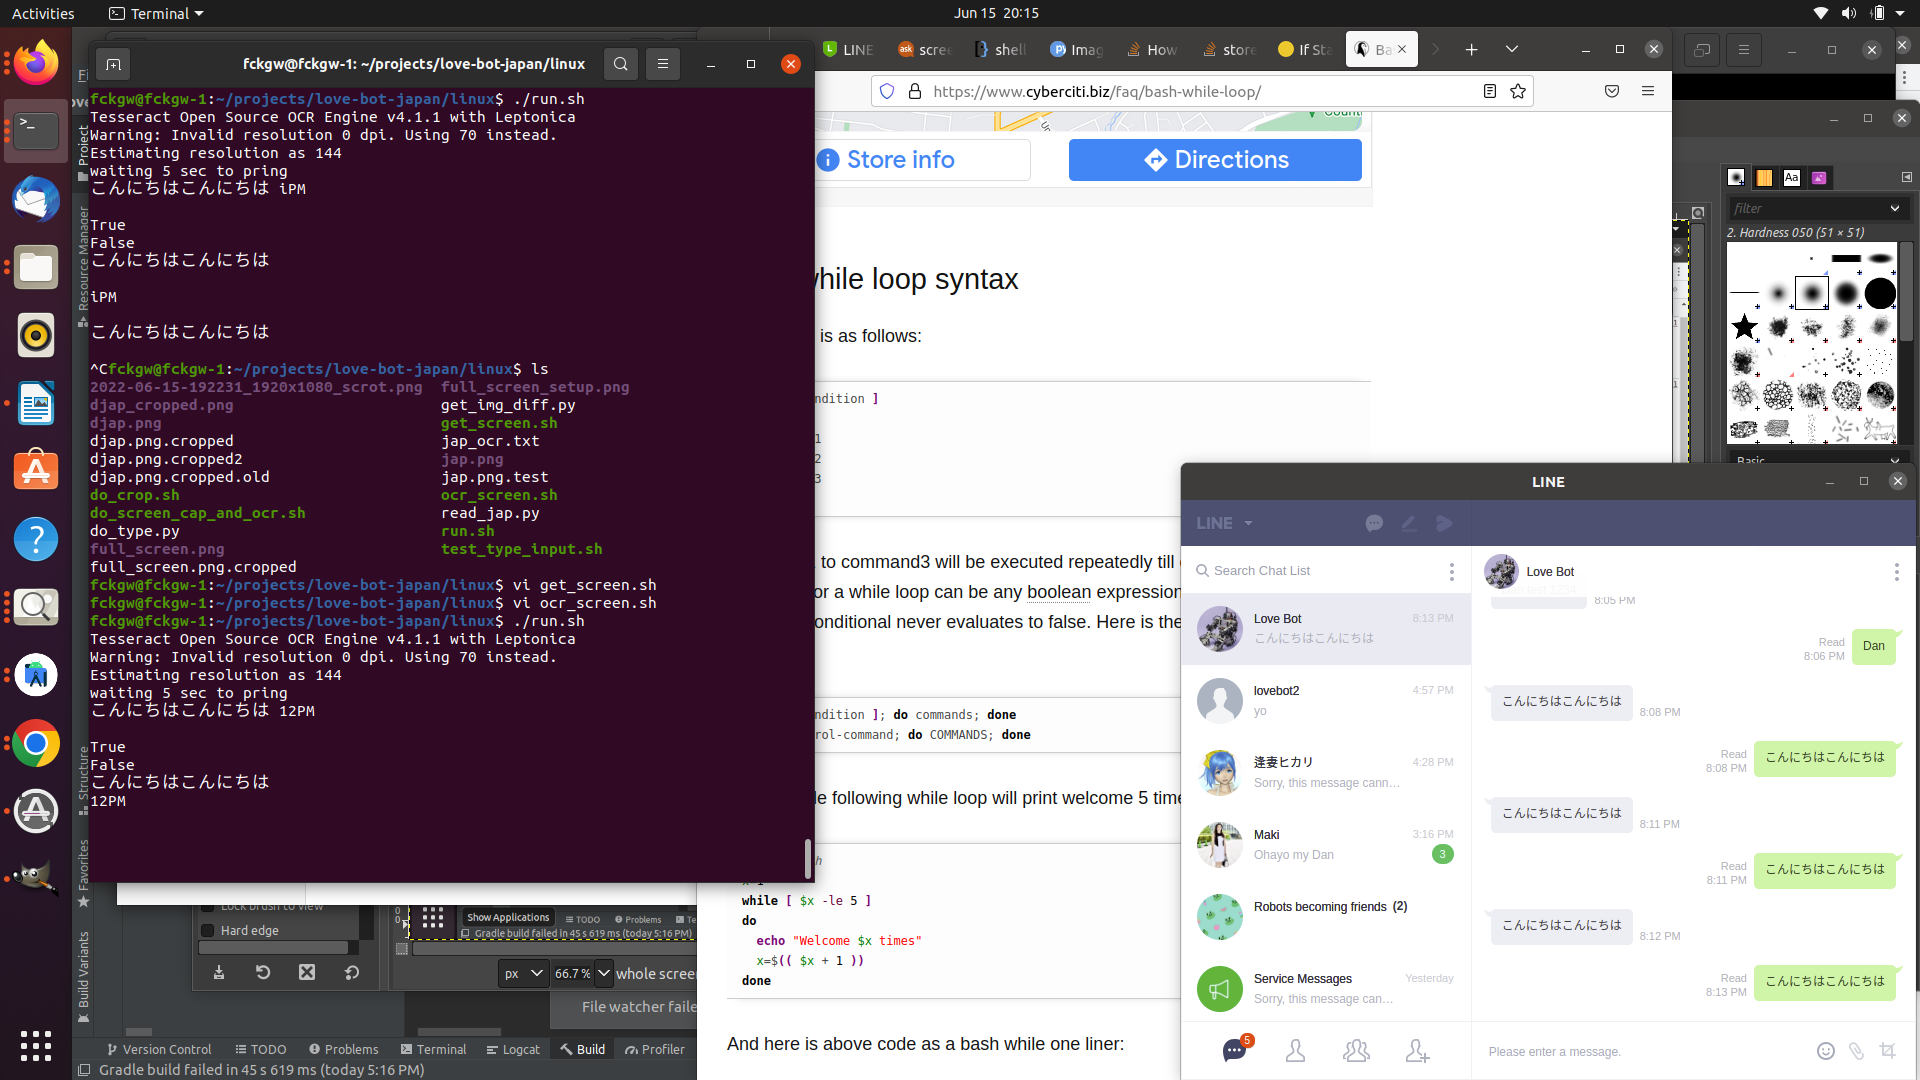
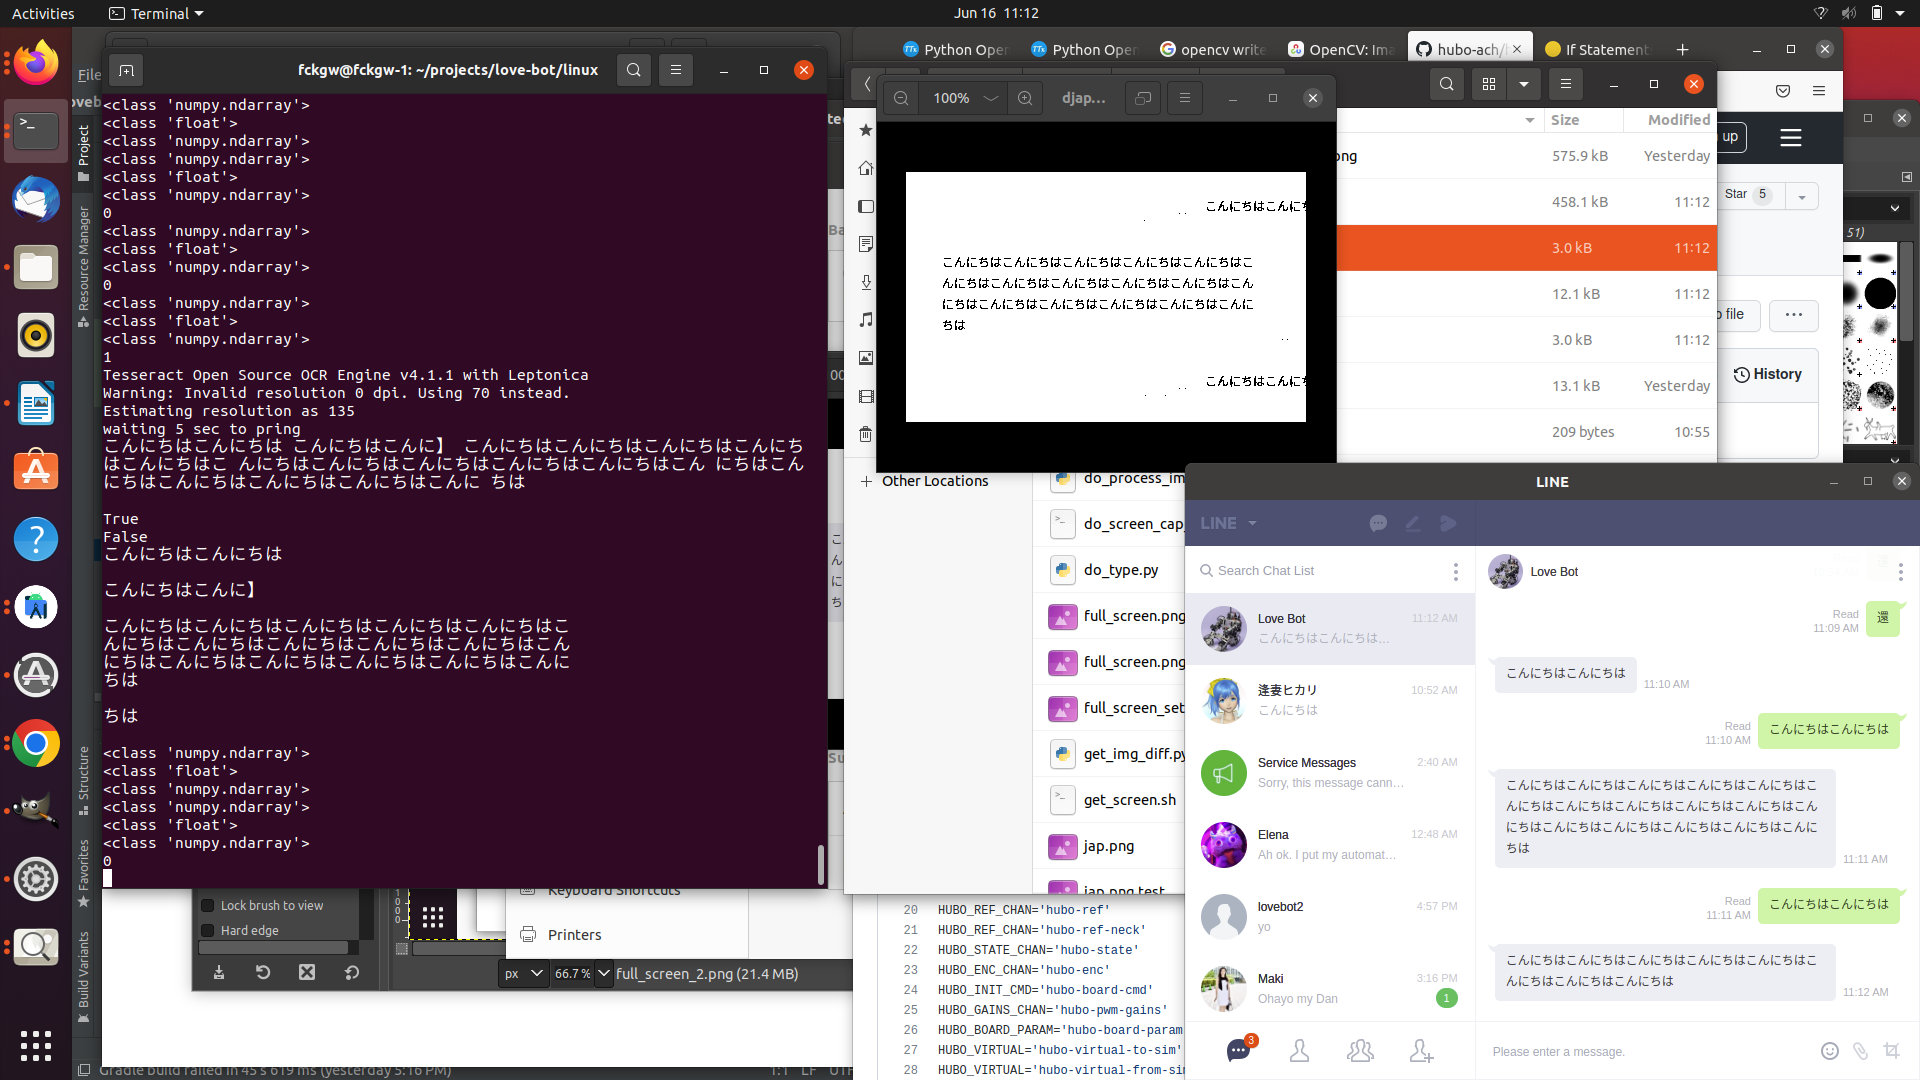
thresholding working and removed the response text

diff --git a/linux/do_process_img.py b/linux/do_process_img.py
@@ -1,0 +1,36 @@
+import numpy as np
+import cv2
+import os
+# reads image 'opencv-logo.png' as grayscale
+img       = cv2.imread('djap.png.cropped.color')
+gray      = cv2.cvtColor(img, cv2.COLOR_BGR2GRAY)
+img       = cv2.cvtColor(img, cv2.COLOR_BGR2HSV)
+hsv       = img
+#hsv       = cv2.cvtColor(img, cv2.COLOR_BGR2HSV)
+
+
+print(np.max(img))
+#lower =(100, 0,0)
+#upper=(150, 255, 255)
+
+h = 44
+s = 80
+v = 245
+d = 10
+
+lower = np.array([h-d, s-d, v-d])
+upper = np.array([h+d, s+d, v+d])
+
+mask      = cv2.inRange(hsv, lower, upper)
+kernel    = np.ones((5,5), np.uint8)
+mask = cv2.dilate(mask,kernel, iterations=1)
+#mask = cv2.erode(mask,kernel, iterations=1)
+
+ret, thresh  = cv2.threshold(gray,180,255,cv2.THRESH_BINARY)
+the_out = thresh + mask 
+#the_out = thresh
+print(type(the_out))
+print(type(ret))
+print(type(gray))
+cv2.imwrite('djap.png.cropped.png',the_out)
+os.system('mv djap.png.cropped.png djap.png.cropped')

diff --git a/linux/color_test.py b/linux/color_test.py
@@ -1,0 +1,43 @@
+# Python program to identify
+#color in images
+
+# Importing the libraries OpenCV and numpy
+import cv2
+import numpy as np
+
+# Read the images
+img = cv2.imread("green.png")
+print(img)
+img = cv2.imread("djap.png.cropped.color")
+#img = cv2.imread("shapes.png")
+
+# Resizing the image
+image = cv2.resize(img, (700, 600))
+
+# Convert Image to Image HSV
+hsv = cv2.cvtColor(image, cv2.COLOR_BGR2HSV)
+print(hsv)
+# Defining lower and upper bound HSV values
+h = 44
+s = 80
+v = 245
+d = 10
+
+lower = np.array([h-d, s-d, v-d])
+upper = np.array([h+d, s+d, v+d])
+
+# 44  80 245
+# 168 245 208
+#lower = np.array([50, 100, 100])
+#upper = np.array([70, 255, 255])
+
+# Defining mask for detecting color
+mask = cv2.inRange(hsv, lower, upper)
+
+# Display Image and Mask
+cv2.imshow("Image", image)
+cv2.imshow("Mask", mask)
+
+# Make python sleep for unlimited time
+cv2.waitKey(0)
+

diff --git a/linux/get_img_diff.py b/linux/get_img_diff.py
@@ -5,9 +5,14 @@ import cv2
 img     = cv2.imread('djap.png.cropped', 0) 
 img_old = cv2.imread('djap.png.cropped.old', 0) 
 
-img_sub = img-img_old
+the_diff = 2000
 
-the_diff = np.sum(img_sub)
+try:
+    img_sub = img-img_old
+    the_diff = np.sum(img_sub)
+except:
+    the_diff = 2000
+    print('--- Different Size Images ---')
 
 if (the_diff > 1000):
     print(1)

diff --git a/linux/read_jap.py b/linux/read_jap.py
@@ -12,7 +12,8 @@ count = 0
 #print(Lines)
 #print(len(Lines))
 try:
-  the_out = Lines[len(Lines)-4]
+  the_out = Lines[len(Lines)-2]
+  ##the_out = Lines[len(Lines)-4]
   #the_out = Lines[len(Lines)-2]
   print(the_out)
 except:
